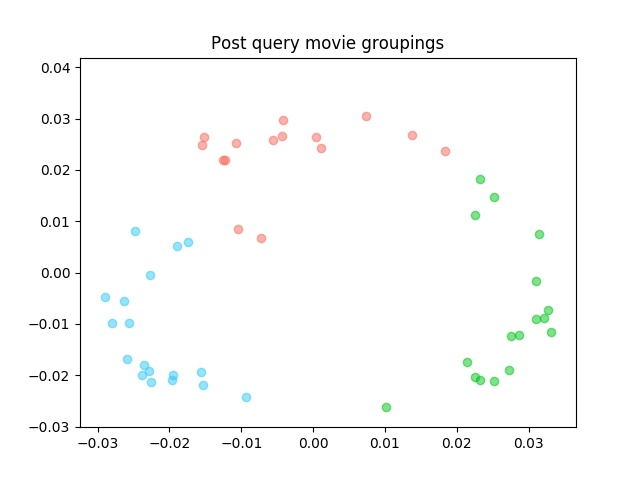
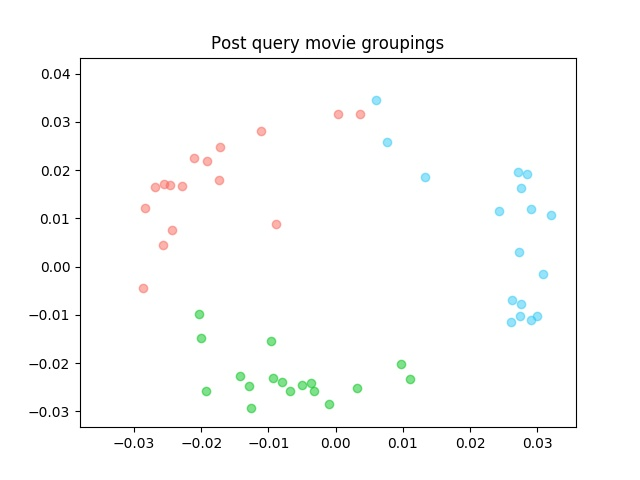
updated

diff --git a/python/clustering/Cluster.py b/python/clustering/Cluster.py
@@ -75,6 +75,7 @@ def k_means_pp(data, k, visualize=False, d=2):
         plot_clusters(clusters)
     return json_data
 
+
 def plot_clusters(data):
     colors = ['#fa675c', '#2fc9f7', '#00c41a', '#bc1fff', '#ff931f']
     for cluster in range(len(data)):
@@ -106,6 +107,7 @@ def find_nearest_centers(point_data, json_data, centers, k=3):
             movieID = point[len(point)-1]
             json_data[movieID]["Cluster"] = cluster
     return json_data, clusters
+
 
 def euclidean_distance(point1, point2):
     sum = 0

diff --git a/python/server.py b/python/server.py
@@ -34,7 +34,7 @@ class SimpleHTTPRequestHandler(BaseHTTPRequestHandler):
         # BLAZE: Use result_data to do clustering. Call your clustering function here.
         clusters = k_means_pp(result_data, 3, visualize=True)
 
-        json_response = result_data
+        json_response = clusters
 
         json_response = bytes(json.dumps(json_response), 'utf-8')
         self._set_response()
